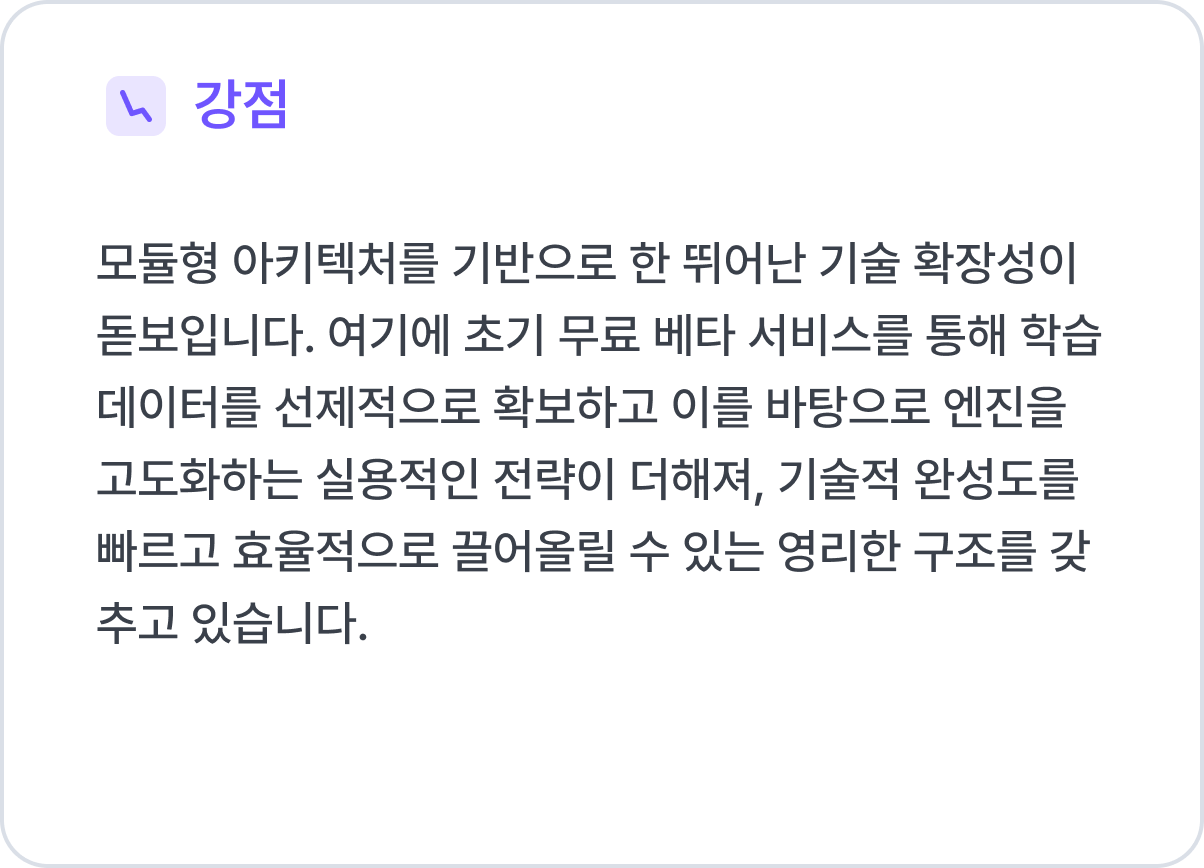
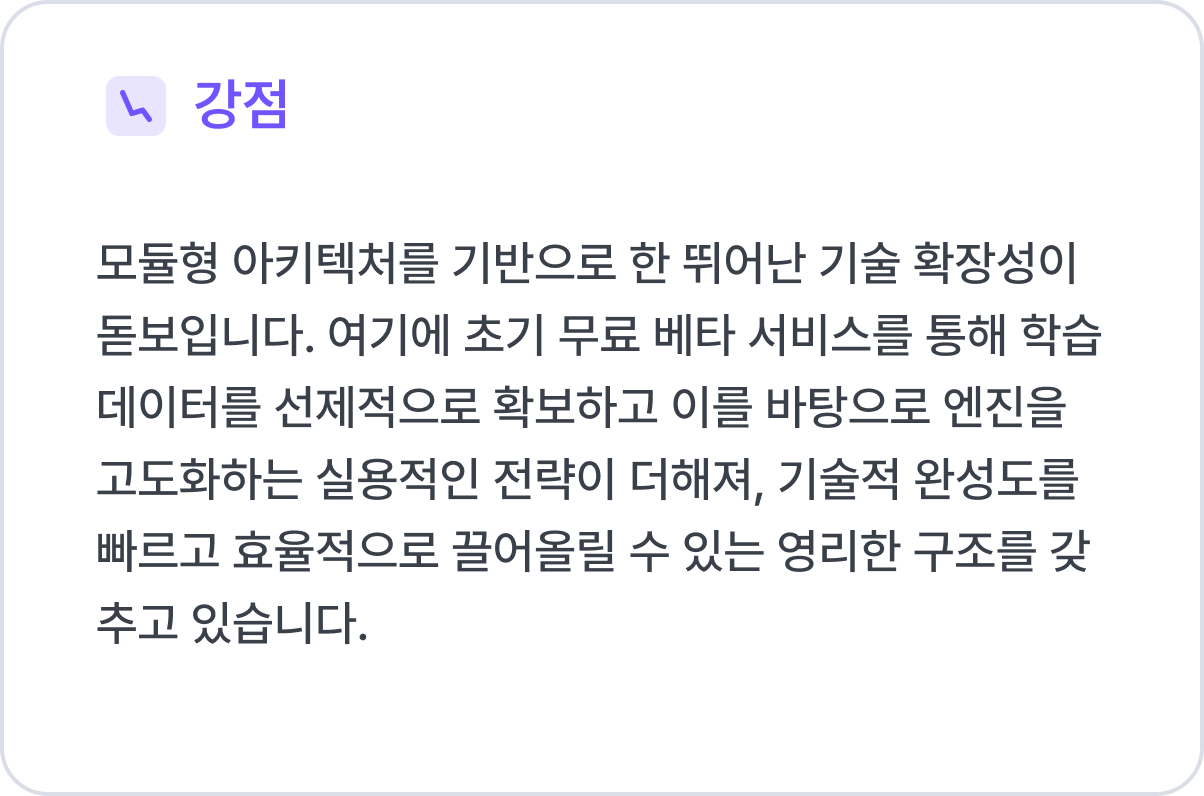
fix: (SRLT-104) 전문가 리포트 예시 모달 사진 변경

Changed region(s): [[0.0615, 0.2714, 0.9219, 0.8141], [0.0922, 0.0905, 0.2458, 0.1809]]

diff --git a/src/app/price/components/ExampleExpertModal.tsx b/src/app/price/components/ExampleExpertModal.tsx
@@ -23,7 +23,7 @@ const ExampleExpertModal = ({ onClose }: ExampleExpertModalProps) => {
           </button>
         </div>
 
-        <div className="bg-gray-80 h-[464px] w-full rounded-b-xl p-6">
+        <div className="bg-gray-80 w-full rounded-b-xl p-6">
           <p className="ds-subtext text-primary-500 font-semibold">
             전문가 리포트
           </p>
